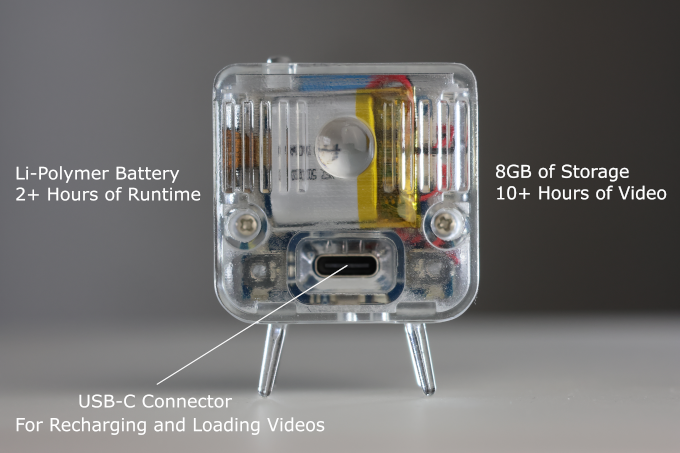
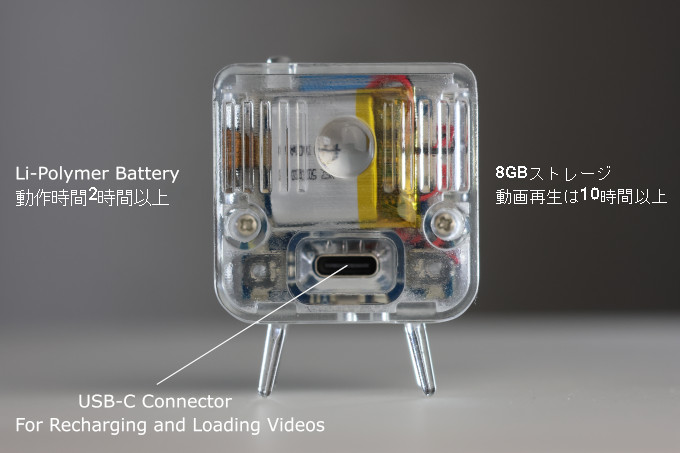
Translate another page and update converter app download links

Changed region(s): [[0.7103, 0.34, 0.9882, 0.4636], [0.0309, 0.4018, 0.3088, 0.4636]]

diff --git a/docs/jp/help.md b/docs/jp/help.md
@@ -3,30 +3,37 @@ hide:
   - navigation
 ---
 
-# TinyTV Help & FAQ Page
+# TinyTV ヘルプ&FAQ ページ
 
 
-## Charging TinyTV's
+## TinyTVの充電
 
-You can use a USB power cable to connect your TinyTV to your computer or another power source. A orange charging LED will turn on when your TinyTV is charging. The orange LED will turn off when your TinyTV is fully charged.
+USB電源ケーブルを使用してTinyTVをパソコンまたは他の電源に接続できます。TinyTVが充電中は、オレンジ色の充電LEDが点灯します。TinyTVの充電が完了すると、オレンジ色のLEDが消灯します。
 
-
-## Can I expand the storage?
-
-All TinyTVs come with an 8GB micro SD Card pre-loaded with some demo videos. The micro SD Card is removable only with the TinyTV DIY Kit using tweezers and the cutout slot on the bottom of the TV case. The TinyTV 2 and TinyTV Mini sets have the micro SD Card built in without ready-access - ***While it's theoretically possible to disassemble these models and put in a larger SD Card, we don't recommend or support this since it could damage the electronics without proper caution or equipment.***
 
 ---
 
-## "The remote does not turn the TV on?"
 
-TinyTV 2 and Mini can only be turned on using the remote for up to two minutes after quickly pressing the power button. There are two "off modes" the TVs have, soft off and hard off:
+ストレージを拡張することはできますか？
 
-  * **Soft off**: When quickly pressing the power button to turn the TV off it goes into **soft off** mode. The remote can be used for up to two minutes to turn it back on.
-  * **Hard off**: After two minutes in **soft off** mode the TV cannot be turned back on using the remote. This mode conserves the most battery life. Quickly press the power button to turn it back on.
+全てのTinyTVには、デモ動画がプリロードされた8GBのマイクロSDカードが付属しています。マイクロSDカードは、TinyTV DIYキットを使用してのみ取り外すことができます。ピンセットとテレビケースの底部の切り抜きスロットを使用してください。TinyTV 2とTinyTV Miniには、アクセスしやすい内蔵マイクロSDカードはありません。***これらのモデルを分解して大容量のSDカードに入れ替えることは理論的には可能ですが、適切な注意や装備がないと電子部品を破損する可能性があるため、お勧めしませんし、サポートも提供していません。***
+
 
 ---
 
-## "Playback error"
+
+##「リモコンでテレビをオンにできませんか？」
+
+TinyTV 2とMiniは、電源ボタンを素早く押した後、2分以内にリモコンを使用してのみオンにすることができます。テレビには2つの「オフモード」があります。ソフトオフとハードオフです：
+
+*	**ソフトオフ**：電源ボタンを素早く押してテレビをオフにすると、ソフトオフモードになります。リモコンを使って2分以内に再度オンにすることができます。
+*	**ハードオフ**：ソフトオフモードで2分間経過すると、リモコンを使用してテレビをオンにすることはできません。このモードは最もバッテリー寿命を節約します。再びオンにするには、電源ボタンを素早く押してください。
+
+
+---
+
+
+## "プレイバックエラー"
 
 <center>
 <img src="../images/PlaybackErrorSplash_64x64.png" alt="TinyTV Playback error TinyTV Mini" />
@@ -34,11 +41,13 @@ TinyTV 2 and Mini can only be turned on using the remote for up to two minutes a
 <img src="../images/PlaybackErrorSplash_216x135.png" alt="TinyTV Playback error TinyTV 2" />
 </center>
 
-A playback error will occur when a video file cannot be loaded, or if playback cannot continue for the given file. Check your storage on your TinyTV and make sure the videos have been converted with the correct TinyTV Model, and that all the files have been converted using the TinyTV Converter Application. The TinyTV video formats are custom to the hardware, so you will need to use our free converter.
+動画ファイルが読み込みや再生ができない場合は、再生エラーが発生します。TinyTVのストレージを確認し、動画が正しく対応のTinyTVモデルに変換されていること、またすべてのファイルがTinyTV変換アプリケーションを使用して変換されていることを確認してください。TinyTVの動画形式はハードウェア固有のものですので、無料のコンバーターを使用する必要があります。
+
 
 ---
 
-## "No Card" or "Storage card not detected"
+
+## 「カードなし」か「ストレージカードが検出されません」
 
 <center>
 <img src="../images/NoCardSplash_64x64.png" alt="TinyTV No card error TinyTV Mini" />
@@ -46,11 +55,12 @@ A playback error will occur when a video file cannot be loaded, or if playback c
 <img src="../images/NoCardSplash_216x135.png" alt="TinyTV No card error TinyTV 2" />
 </center>
 
-The SD Card in the hardware is not detectable - this error occurs when no SD Card is inserted, or if the SD Card is loose on the contacts. Try re-inserting the SD Card if possible.
+ハードウェア内のSDカードが検出できない - このエラーは、SDカードが挿入されていない場合、またはSDカードが接触不良の場合に発生します。可能であれば、SDカードを再挿入してみてください。
+
 
 ---
 
-## "Storage error" or "A storage malfunction occurred"
+## 「ストレージエラー」か「ストレージ故障が発生」
 
 <center>
 <img src="../images/StorageErrorSplash_64x64.png" alt="TinyTV Storage error TinyTV Mini" />
@@ -59,4 +69,11 @@ The SD Card in the hardware is not detectable - this error occurs when no SD Car
 </center>
 
 
-A few things can trigger a storage malfunction error. This error occurs when the SD Card is detected, but the filesystem is damaged or unrecognizable. This can also happen if your file names include unexpected, or special, characters - if you see this error, try changing the names of your files on the SD Card.
+ストレージの故障エラーは、いくつかの要因で発生する可能性があります。このエラーは、SDカードが検出されるものの、ファイルシステムが破損しているか認識できない場合に発生します。また、ファイル名に予期しない特殊文字が含まれている場合もこのエラーが発生することがあります。このエラーが表示された場合は、SDカード内のファイル名を変更してみてください。
+
+
+---
+
+
+ご注文いただき誠にありがとうございます！新しいTinyTVがあなたをとても幸せにします。
+何かご質問があれば、以下の連絡先までお問い合わせください：

diff --git a/docs/jp/TV2-Get-Started.md b/docs/jp/TV2-Get-Started.md
@@ -9,13 +9,13 @@ hide:
 <img src="../images/banner-tinytv2.jpg" alt="TinyTV banner vector image" />
 </center>
 
-**Charging** - To recharge your TinyTV, plug in a USB-C cable to the back of the TinyTV and the other end into a power source, like a computer or a USB wall charger.
+**充電** - TinyTVを充電するには、USB-CケーブルをTinyTVの背面に差し込み、もう一方の端をパソコンまたはUSB充電器等に接続してください。
 
-**Turn On / Off** - There is a single button on the top which will turn the TV on or off. You can also us the Tiny Remote to turn the TV on and off.
+**電源オン/オフ** - 上には3つのボタンがあり、中央のボタンはテレビの電源をオン/オフにします。Tinyリモコンを使ってテレビの電源をオン/オフすることもできます。
 
-**Changing Volume** - The left rotary knob will turn up or down the volume. 
+**音量調整** - 左側の回転ノブを回すと、音量を上げたり下げたりすることができます。 
 
-**Changing Channels** - The right rotary knob will cycle between the different videos that are loaded on the TV.
+**チャンネルを変える** - 右側の回転ノブを回すと、テレビに読み込まれた動画を選択できます。
 
 ---
 
@@ -25,21 +25,21 @@ hide:
   }
 </style>
 
-#### Tech Specs
+#### 製品仕様
 
 <center>
 <img src="../images/banner-tech-specs.jpg" alt="TinyTV vector drawing of a TinyTV 2 entering an x-ray machine" />
 </center>
 
-* **Dimensions**: 47.6mm x 36.6mm x 25.9mm (1.9" x 1.4" x 1.0")
-* **Display**: IPS TFT 65K Color, 26mm (1.0"), 216x135 pixels
-* **Battery**: Li-Polymer 3.7V, 150mAh, about 2 hours of video playback 
-* **Storage**: Built in 8GB, about 10 hours of video playback
-* **Audio**: 16x9mm (0.6" x 0.4") front facing speaker
-* **Inputs**: Power Button, 2 rotary knobs for channel and volume control
-* **Remote**: Can be controlled by an Infrared (IR) remote control
-* **Processor**: Raspberry Pi RP2040 Processor
-* **Connectivity**: USB-C for uploading and battery charging
+* **寸法**: 47.6mm x 36.6mm x 25.9mm (1.9インチ x 1.4インチ x 1.0インチ
+* **ディスプレイ**: IPS TFT 65Kカラー、26mm (1.0インチ)、216x135ピクセル
+* **バッテリー**: リチウムポリマー3.7V、150mAh、動画は約2時間再生可能 
+* **ストレージ**: 内蔵8GB、約10時間分の動画
+* **オーディオ**: 16x9mm (0.6インチ x 0.4インチ) フロントスピーカー
+* **ボタン**: 電源ボタン、チャンネルと音量の調整用の回転ノブ2つ
+* **リモコン**: 赤外線（IR）リモコンで操作可能
+* **プロセッサー: Raspberry Pi RP2040プロセッサー
+* **接続**: 読み込み用と充電用のUSB-C ポート
 
 <center>
 <img src="../images/TV-2-features-diagram.jpg" alt="TinyTV 2 photo features front of TV" />

diff --git a/docs/jp/TinyTV-Converter-App.md b/docs/jp/TinyTV-Converter-App.md
@@ -24,7 +24,7 @@ _注意：<a href="https://tinycircuits.com/products/tinytv-diy-kit" target="_bl
 
 === "Windows 版"
 
-    - <a href="https://files.tinycircuits.com/TinyTVConverterWindows1.0.zip" download target="_blank" alt="Windows 64 bit Installer">**Windows 版ダウンロード**</a>（バージョン1.0.0、2023年6月27日更新、Windows 10 64ビット以降に対応） 
+    - <a href="https://files.tinycircuits.com/TinyTVConverterWindows1.0.2.zip" download target="_blank" alt="Windows 64 bit Installer">**Windows 版ダウンロード**</a>（バージョン1.0.0、2023年6月27日更新、Windows 10 64ビット以降に対応） 
 
     上記のリンクをクリックして、ダウンロードが完了するまで待ってください。
 
@@ -35,7 +35,7 @@ _注意：<a href="https://tinycircuits.com/products/tinytv-diy-kit" target="_bl
 
 === "MacOS 版"
 
-    - <a href="https://files.tinycircuits.com/TinyTVConverter1.0.1b.zip" download target="_blank" alt="Mac Intel Installer">**MacOS 版ダウンロード**</a> バージョン1.0.1、2023年6月27日更新、IntelとApple Silicon、macOS 12.0.0以降に対応）
+    - <a href="https://files.tinycircuits.com/TinyTVConverterMacOS1.0.2.zip" download target="_blank" alt="Mac Intel Installer">**MacOS 版ダウンロード**</a> バージョン1.0.1、2023年6月27日更新、IntelとApple Silicon、macOS 12.0.0以降に対応）
 
     TinyTVコンバーターアプリは現在署名されていないため、Finderでファイルを右クリックし、「開く」を選択し、警告ダイアログで再度「開く」をクリックしてください。
 

diff --git a/docs/en/TinyTV-Converter-App.md b/docs/en/TinyTV-Converter-App.md
@@ -24,7 +24,7 @@ _Note: If you are looking to convert videos to load onto the <a href="https://ti
 
 === "Windows"
 
-    - <a href="https://files.tinycircuits.com/TinyTVConverterWindows1.0.zip" download target="_blank" alt="Windows 64 bit Installer">**Windows Download**</a> (1.0.0, updated 6/27/2023, supports Windows 10 64-bit and newer) 
+    - <a href="https://files.tinycircuits.com/TinyTVConverterWindows1.0.2.zip" download target="_blank" alt="Windows 64 bit Installer">**Windows Download**</a> (1.0.0, updated 6/27/2023, supports Windows 10 64-bit and newer) 
 
     Click the above link and wait for the download to complete.
     
@@ -35,7 +35,7 @@ _Note: If you are looking to convert videos to load onto the <a href="https://ti
 
 === "MacOS"
 
-    - <a href="https://files.tinycircuits.com/TinyTVConverter1.0.1b.zip" download target="_blank" alt="Mac Intel Installer">**MacOS Download**</a> (1.0.1, updated 6/27/2023, supports Intel and Apple Silicon, macOS 12.0.0 and newer)
+    - <a href="https://files.tinycircuits.com/TinyTVConverterMacOS1.0.2.zip" download target="_blank" alt="Mac Intel Installer">**MacOS Download**</a> (1.0.1, updated 6/27/2023, supports Intel and Apple Silicon, macOS 12.0.0 and newer)
 
     The TinyTV converter app is not currently signed so you will need to right-click the file in Finder and click **Open**, then click **Open** again in the warning dialog.
 

diff --git a/README.md b/README.md
@@ -13,7 +13,7 @@ Pre-requisites: You will need [Python](https://www.python.org/downloads/) and [p
 Once installed, fork this repository to create your local copy. To run the website locally, navigate a command prompt or terminal to the directory of the project that has the mkdocs.yml file and execute:
 
 ```
-mkdocs serve
+mkdocs serve -f config/en/mkdocs.yml or mkdocs serve -f config/jp/mkdocs.yml
 ```
 
 If everything is correctly installed, your terminal should print a message like:
